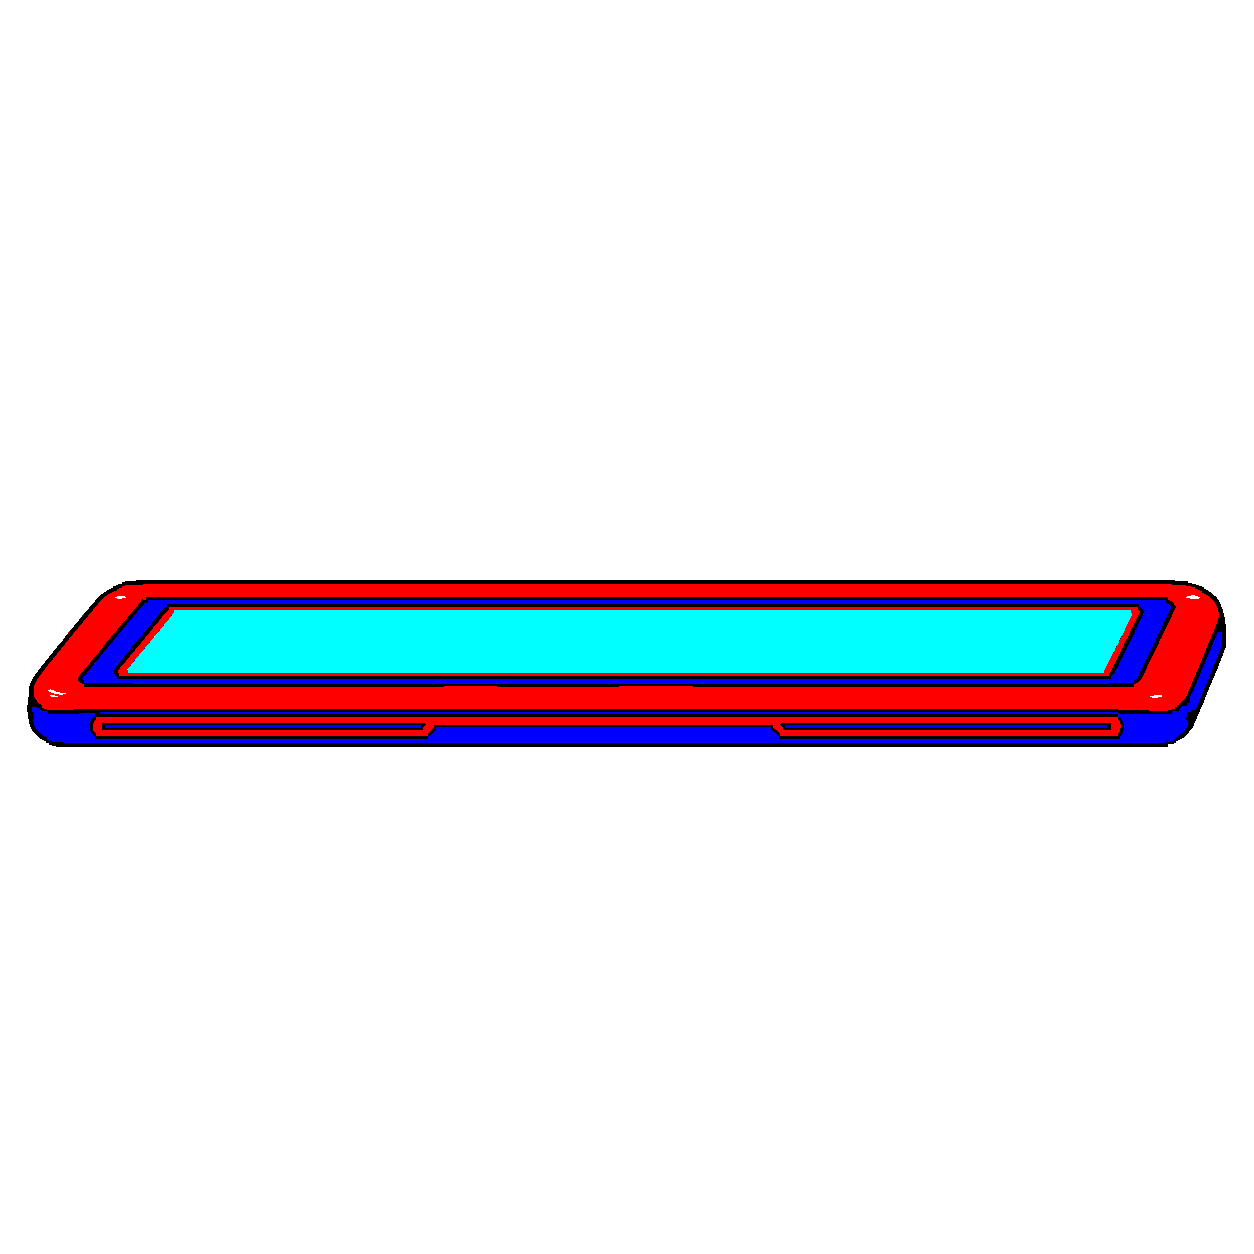
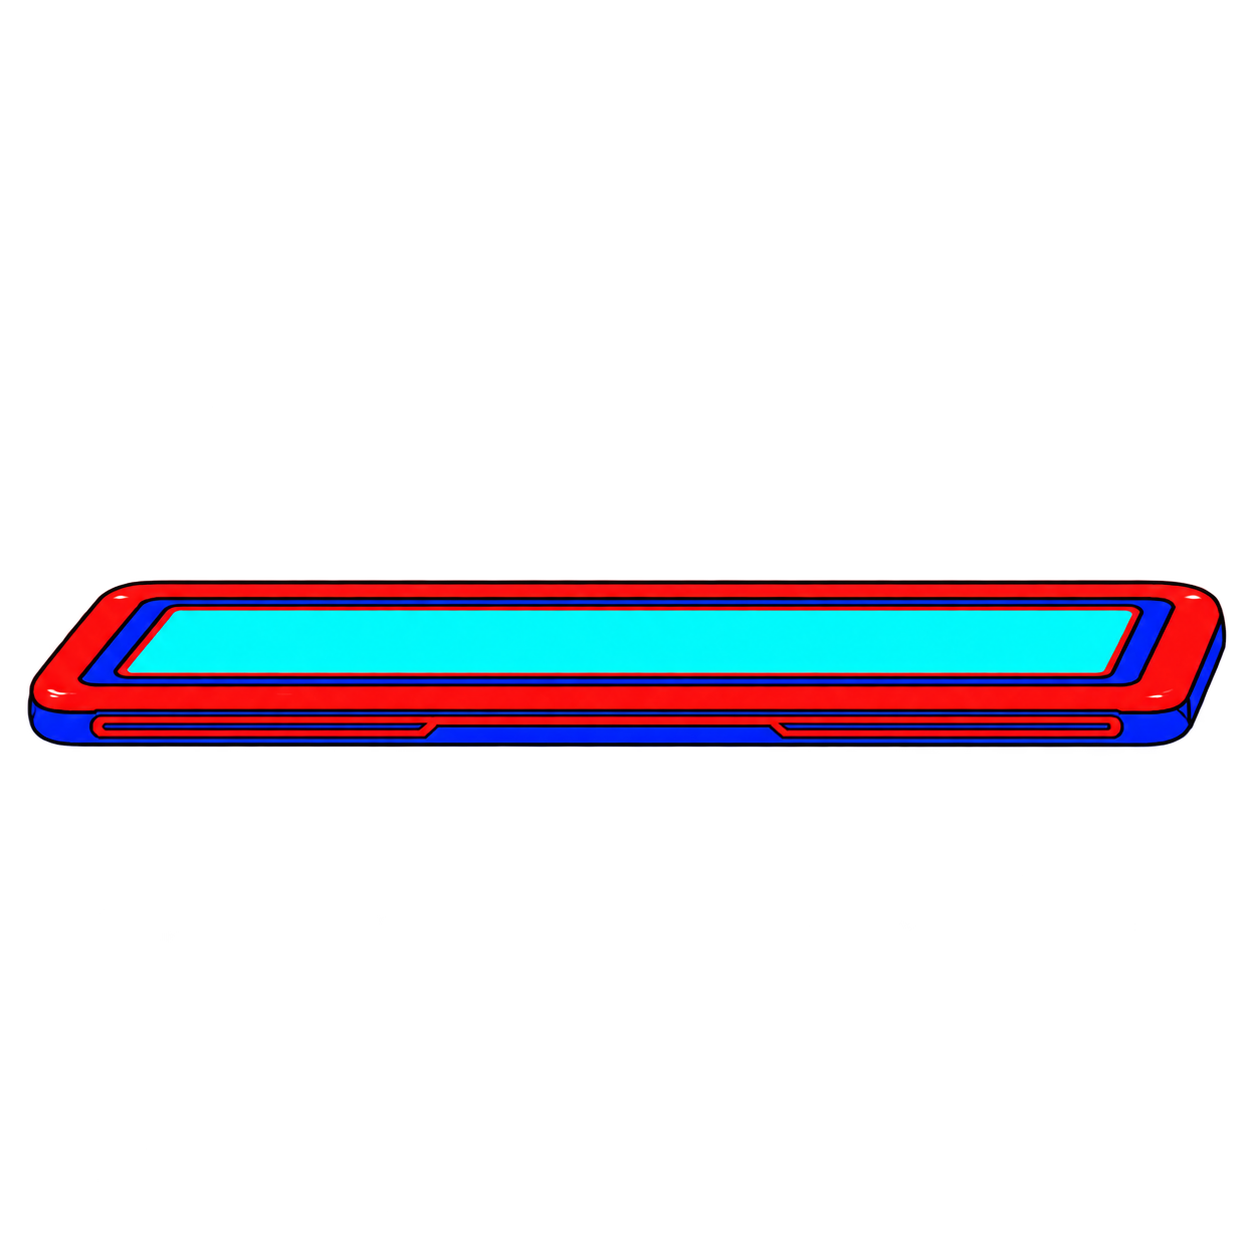
resetting the segmentation mask, fixing did not work had to start fresh

Changed region(s): [[0.0, 0.4665, 0.9641, 0.622], [0.9641, 0.4976, 0.9952, 0.5287]]

diff --git a/test/colorize_podium_test.py b/test/colorize_podium_test.py
@@ -57,7 +57,7 @@ MASK_CLASSES: tuple[RGB, ...] = (
 MASK_ALPHA_THRESHOLD = 64
 PRESERVED_COMPONENT_MINIMUMS: dict[RGB, int] = {
     (0, 0, 0): 32,
-    (255, 255, 255): 48,
+    (255, 255, 255): 8,
 }
 
 
@@ -605,16 +605,12 @@ def colorize_podium(
             continue
 
         if mask_class == (255, 255, 255):
-            if pixel_index % source.width >= round(source.width * 0.70):
-                replacement = color
-                is_metal = True
-            else:
-                replacement = (
-                    metal_highlight
-                    if metallic
-                    else brightened_color(color, 255, 0.72)
-                )
-                is_metal = False
+            replacement = (
+                metal_highlight
+                if metallic
+                else brightened_color(color, 255, 0.72)
+            )
+            is_metal = False
             is_panel = False
             is_structure = False
         elif mask_class == (0, 0, 0):
@@ -693,7 +689,7 @@ def main() -> None:
                 FIRST_PLACE_BOX.exterior_line,
                 FIRST_PLACE_BOX.interior_line,
                 panel_classes=((0, 255, 255),)
-                if size_name in ("00_flat", "03_medium")
+                if size_name in ("00_flat", "01_x_short", "03_medium")
                 else ((255, 0, 0),),
             ).save(output_path)
             print(f"Generated {output_path}")
